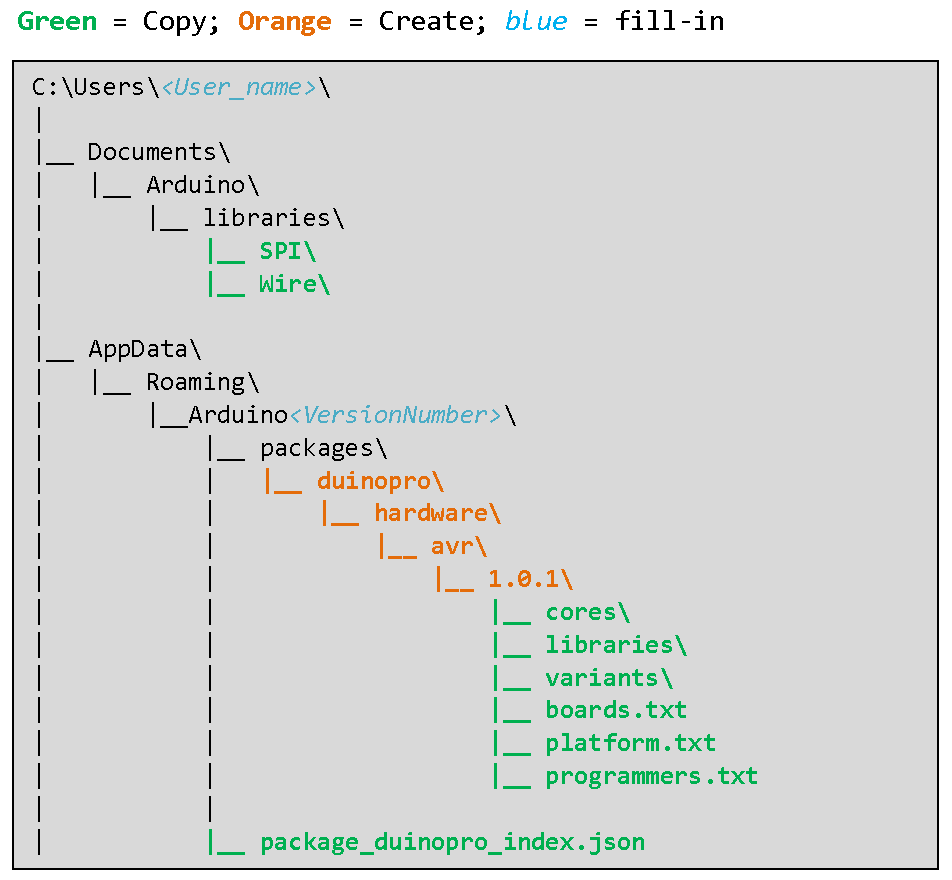
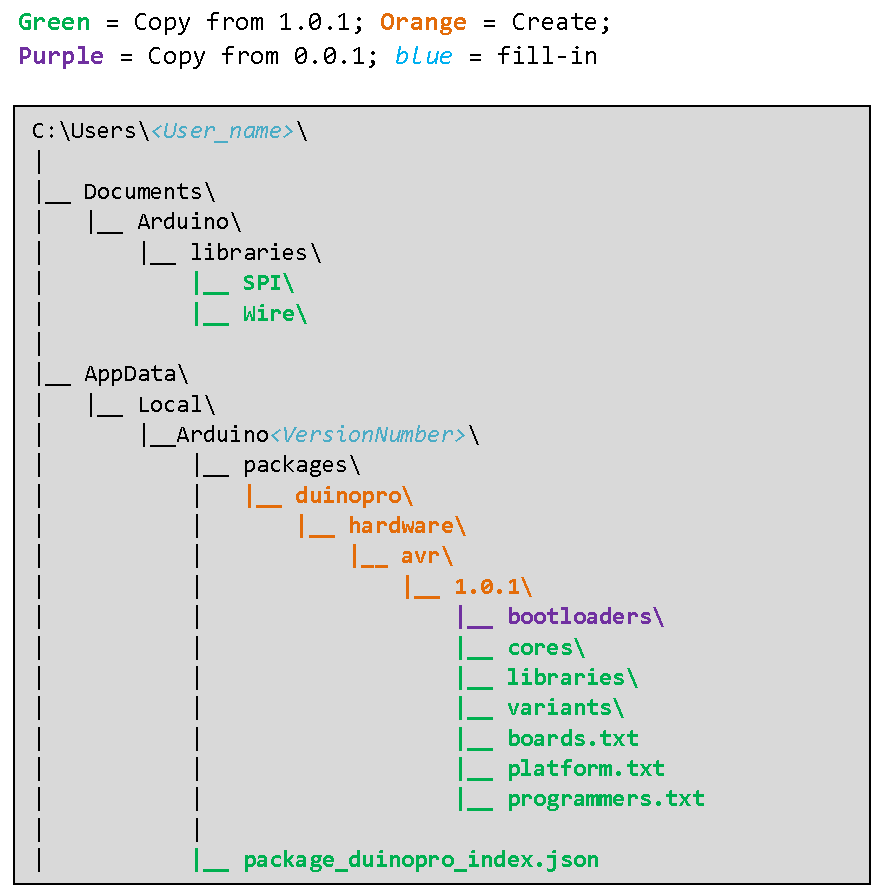
update install

Changed region(s): [[0.0, 0.0, 1.0, 1.0], [0.0909, 0.3682, 0.7879, 0.9205]]

diff --git a/searchindex.js b/searchindex.js
@@ -1,1 +1,1 @@
-Search.setIndex({docnames:["index","intro/home","quickRef/quickRef","tech_arch/arch_network","tech_arch/arch_sh","tech_arch/error_handling","tech_arch/main","tech_arch/principles/encapsulation","tech_arch/sh_configurations","tech_implement/hardware/hardware_dustyDuinoProMap","tech_implement/main","tech_testingDeploy/main","tech_testingDeploy/testing/firmwareTesting_makingTests","tech_testingDeploy/testing/firmwareTesting_overview","toc","usage/dependencies/duinoPro","usage/dependencies/otherPkgs_dustyQSL","usage/dependencies/software","usage/git/git_basics","usage/git/git_branches","usage/git/git_checkout","usage/main","usage/projDocs"],envversion:53,filenames:["index.rst","intro\\home.rst","quickRef\\quickRef.rst","tech_arch\\arch_network.rst","tech_arch\\arch_sh.rst","tech_arch\\error_handling.rst","tech_arch\\main.rst","tech_arch\\principles\\encapsulation.rst","tech_arch\\sh_configurations.rst","tech_implement\\hardware\\hardware_dustyDuinoProMap.rst","tech_implement\\main.rst","tech_testingDeploy\\main.rst","tech_testingDeploy\\testing\\firmwareTesting_makingTests.rst","tech_testingDeploy\\testing\\firmwareTesting_overview.rst","toc.rst","usage\\dependencies\\duinoPro.rst","usage\\dependencies\\otherPkgs_dustyQSL.rst","usage\\dependencies\\software.rst","usage\\git\\git_basics.rst","usage\\git\\git_branches.rst","usage\\git\\git_checkout.rst","usage\\main.rst","usage\\projDocs.rst"],objects:{},objnames:{},objtypes:{},terms:{"22cbc57":19,"3d2496f":20,"4552c5d":20,"466ce7c":20,"boolean":[12,13],"byte":8,"case":[8,12,19],"default":[5,8],"final":[3,12],"function":[3,7,8,13],"import":14,"int":[7,12],"new":[12,21,22],"public":7,"return":[7,12],"short":20,"static":7,"switch":19,"void":[7,12],"while":7,AWS:3,For:20,Going:21,IDE:15,ONE:19,The:[1,3,4,7,8,12,13,16,18,20,22],Use:20,With:18,_config:7,_config_set_flag:[7,8],_sourc:22,_sys_ready_flag:7,_sys_sleepguard:7,about:22,abov:13,access:[3,7],accordingli:12,achiev:3,across:[7,8],add:[18,19,20,22],added:[19,22],addit:15,addition:3,affect:19,after:[5,8],ahead:19,aim:14,all:[7,8,18,19,20,22],allow:[3,8],also:22,amazon:3,amount:8,analysi:3,ani:[18,19,20],anoth:[3,20],api:[2,3,7],app:3,appli:19,applic:3,approv:15,architectur:0,arduino:[2,15],arduinoid:21,around:20,ask:18,assist:14,atamo:[1,16,18],atmega328p:2,atmel:17,attempt:[5,8],authent:3,auto:3,autom:[16,22],automat:3,avail:12,avr:[2,3],awar:7,back:21,background:[0,6],balanc:3,base:[1,3,14,17],basic:21,beanstalk:3,becaus:[7,22],befor:[8,22],below:[4,18,19],better:18,between:[3,18,19],block:13,board:15,borrow:7,both:[8,19],bound:3,branch:[20,21,22],branchnam:19,bridg:3,broadcast:8,brochur:2,browser:3,bug:5,build:[8,11,12,18,19,21],busi:5,c7c:[1,16,18],caller:[7,12],can:[1,3,4,5,7,8,13,18,20,22],care:22,caus:5,cblue:20,centralis:3,certain:[8,13],cgreen:20,chang:[12,18,19,20,22],charact:7,check:[7,8,13,19,20,22],checkout:[19,21,22],choos:19,clean:22,clear:18,cli:2,client:[3,15],clone:[16,18],cloud:3,code:[1,5,12,13,14,17,20,21],collect:5,com:[1,16,18],combo:20,command:[8,18,19,22],comment:13,commit:[18,19,21,22],commun:[3,8],compil:[7,13],comput:15,concept:7,condit:12,configur:[3,6,16],conflict:18,consid:[7,22],contain:12,content:0,context:3,continu:5,contribut:[21,22],control:[3,7,17],copi:15,core:7,correspond:12,cost:8,creat:[3,11,14],cred:20,creset:20,critic:5,crucial:8,cryptic:20,csc:15,ctrl:15,current:19,cycl:8,d253315:20,daili:18,data:[3,5,8],databas:3,datasheet:2,date:[19,20],debug:[5,11,13],decoupl:20,decreas:8,defin:[12,13],depend:17,deploi:[3,14],deploy:[0,3],descript:8,design:[1,3,14,20],despit:18,detach:20,detail:[14,18],determin:7,dev1:19,dev2:19,dev:18,develop:[3,7,14,15,17,19],devic:[6,14],diagnost:8,differ:[18,19],digit:3,direct:3,directori:[19,22],disabl:13,discard:[19,20],distinct:12,django:3,doc:22,document:[20,21],doe:18,doing:20,don:18,done:[8,12,13],download:15,duino:2,duinopro:[2,3,10,21],dure:19,dust:2,dustcloud:16,dusti:[1,2,3,10,18,21],duti:8,dynamodb:3,each:12,easi:2,ec2:3,either:8,elast:3,embed:[2,17],enabl:13,encapsul:6,endif:[12,13],enforc:7,engin:18,ensur:[7,18],enter:[16,22],error:6,error_major:5,error_minor:5,essenti:16,event:5,everi:[7,8],everyth:22,exampl:[7,12,13,20,21],example_fil:19,exclud:22,exe:22,expect:8,experiment:20,expos:[3,7],extra:8,f106360:20,factor:8,fail:[8,12],field:15,file:[7,11,14,15,19,22],firmwar:11,first:19,flag:5,folder:[15,20],follow:[12,13,15],form:[3,20],format:[3,20],forward:3,found:[1,22],from:[3,5,7,8,12,13,15,16,20,22],front:7,funni:22,further:3,gatewai:3,get:[19,20],git:[16,17,19,20,21,22],github:[1,2,16,18],global:7,goal:14,granular:8,group:12,guard:12,guid:2,guidelin:12,handl:[6,12],hard:19,has:13,have:[7,19,22],head:[19,20],header:7,help:22,here:[19,22],hidden:22,hoc:12,hold:7,hop:3,host:[3,6],how:0,howev:[7,12],html:22,http:[1,3,15,16,18],ideal:12,imag:15,impact:20,implement:0,includ:[3,7,13],incorrect:5,index:[2,8,19,22],indic:8,individu:8,info:5,inform:8,infrastructur:3,ini:16,init:16,initi:[8,16],instal:[14,15,18,21],instead:[7,13],integr:[3,21],interfac:[3,7],intermitt:5,intern:8,interpret:3,interrupt:[7,20],introduc:8,ioteam:2,ipm01:2,ipm02:2,ipm03:2,ipm:2,ipr01:2,ipr02:2,ipr03:2,ipr04:2,ipr:2,is_sys_readi:7,issu:5,item:17,jami:20,join:8,json:15,just:19,keep:7,kei:[6,7],keyword:7,kjph:[1,18],know:20,languag:7,later:3,let:[12,19],level:[5,8],lib:22,librari:21,like:[7,18,20],line:20,linear:3,link:14,load:[3,8],local:[12,18,19],log:[5,8,18,20],log_level:8,logic:12,longer:5,look:[7,8,20],lookup:6,ltc5800:2,machin:19,macro:13,made:[12,19],mai:[7,12],main:[4,7,12,13,16,20],mainten:8,make:[11,18,20,21,22],manag:[2,3,5,7,15],manual:22,map:10,mark:22,master:20,max:8,maximum:8,mean:[3,18],mediawiki:15,memori:[8,13],merg:18,mesh:3,messag:22,meta:5,micro:7,microcontrol:3,min:8,minim:8,miss:8,mkdir:22,mode:11,modif:12,modifi:[11,15,19,20],modul:[3,7],monitor:3,month:8,more:18,mote:2,move:[19,22],multi:3,must:[7,8,12,22],nativ:22,navig:21,necessari:[12,16],need:[7,8,17,22],network:[5,6],network_join_duty_cycle_decr:8,network_join_duty_cycle_init:8,network_join_wait_max:8,network_join_wait_time_incr:8,network_join_wait_time_init:8,never:7,node:3,non:8,nosql:3,note:[12,19,20],notic:7,now:[19,20],number:[8,20],object:7,obvious:18,occur:13,off:13,often:18,old:[19,21],onc:[8,22],one:[3,12],onli:[7,8,13],onlin:18,oop:7,open:15,oper:[5,7],option:[8,19,22],orchestr:3,order:8,orient:7,origin:[19,22],other:7,our:[7,12,22],out:[3,13,20,22],outcom:12,output:[5,20],outsid:7,over:[7,8],overview:[11,14],packag:[16,22],package_duinopro_index:15,page:22,paramet:6,pars:3,patch:3,perform:[3,13,20],period:8,peripher:12,person:20,phan:20,pinout:2,pintout:2,pip:22,place:[3,12],pleas:15,point:3,pointless:7,possibl:5,potenti:5,pre:13,prefac:7,prefer:15,preliminari:7,press:22,pretti:20,prev:19,prevent:8,previou:19,privat:7,process:[3,18,22],processor:13,product:13,program:7,project:[1,16,18],propos:8,protocol:[3,8],provid:[3,8,16,18],publish:[15,19],pull:[18,19,21],pullqsl:16,push:[18,19,22],put:7,python36:22,python:[3,16,17,21],qsl:[2,21],queri:3,question:[12,13,19],quick:[0,20,21],quickstart:22,radio:3,random:19,rang:8,rapidli:3,rather:7,read:[7,18],readi:[7,8],reason:17,reattempt:8,rebuild:8,receiv:8,recommend:[18,22],recompil:8,recov:19,recoveri:5,red:3,ref:[2,18],refer:[0,3,15],regular:12,relev:[12,13],remot:[3,8],remov:[8,19,22],repeat:18,repo:[18,22],report:[5,12],repositori:[16,18],repres:12,request:5,requir:[7,8,17,18,19,21,22],reset:[5,19],resolut:8,resourc:[12,16],respons:5,restructur:22,ret:12,reveal:14,revert:5,review:[18,20],rid:19,right:[7,20],rooki:18,routin:[4,7,8,12],rst:22,run:[8,13,22],safeti:8,sai:[12,20],same:[8,18],sampl:[3,8],sampling_period_diagnost:8,sampling_period_sensor:8,save:[18,19],scale:3,schemat:2,scope:7,section:[12,18],see:7,seem:7,seen:[4,13],select:[13,15],self:3,send:8,senior:18,sensor:[3,6],sensor_clk_spe:8,sensor_comm_typ:8,sent:3,separ:[12,13,22],serial:2,serv:3,server:[3,18],servic:3,set:[8,12,13,16,22],setup:21,sever:[3,8],sha1:20,shift:12,ship:22,shorten:20,should:[7,12,22],shown:19,similar:13,simpl:3,singl:8,site:[3,8,22],sleep:[5,7,8],sleep_overhead_tim:8,sm_clib:16,small:16,smartmesh:[2,3],smb:[13,20],smip01:2,smip02:2,smip03:2,smip:2,softwar:[13,14,18,21],some:19,somedir:22,someon:7,someth:20,sometim:19,sound:18,sourc:[2,12,13,21,22],space:19,specifi:8,speed:[8,18],sphinx:21,sphinx_rtd_them:22,src:[16,19],stabil:5,stackexchang:18,stackoverflow:18,stage:[18,19],start:[2,20,21],stash:19,state:[6,8,19,20],statement:12,statu:19,still:18,storag:[3,19],store:[3,8],stream:3,strict:12,strictli:7,string:20,struct:7,structur:3,studio:17,sub:6,submodul:16,succe:12,summari:17,sys_reboot:7,sys_sleep:7,sys_stat:7,system:[0,5,7,8,18],systemst:7,tabl:0,tailor:18,task:3,tcp:3,team:[7,22],technician:8,technolog:3,test:[0,7,19,20],test_memory_en:[12,13],test_mod:13,test_newth:12,test_newthing_en:12,test_smb:12,test_smb_eeprom_simple_write_read:12,test_smb_en:[12,13],test_some_unit_test_for_new_th:12,tester:[12,13,19],testfail:12,text:[20,22],thei:[7,18],them:[7,13,19,20],theori:21,thi:[1,3,7,8,12,13,16,17,18,19,20,22],thing:[12,18],those:8,three:[12,18],through:[3,7],tight:7,time:[7,8],time_millisecond:7,timer0:20,timer:20,tool:[2,15,17,22],tqfp:2,transmit:3,tree:19,turn:13,tutori:[18,21],two:[3,8,19],type:12,typedef:7,uncommit:19,underscor:7,understand:[14,18],unfeas:8,uniqu:8,unit:20,unless:20,uno:2,until:7,untrack:19,updat:[8,16,18,19],upload:3,url:15,usabl:5,use:[7,14,19,20,22],used:[8,18],user:[2,3,7,14],uses:8,using:[3,7,19],usual:5,util:22,uwa:1,valu:[7,8],variabl:[6,8],variou:17,verbos:5,version:[17,22],virtual:3,visualis:3,volatil:8,wai:22,wait:[7,8,15],wake:7,want:19,warn:5,web:3,well:7,what:[18,19,20],when:[8,13],where:19,which:[3,13,18],whilst:[7,19],who:22,why:18,wikipedia:7,wip:19,wish:19,within:3,without:[8,20],wonder:18,work:[5,19],workflow:21,wsn:[3,8],yellow:20,you:[18,19,20,22],your:[15,18,19,21],zero:13,zip:15},titles:["C7C ATAMO Dusty Project","Background","Quick Reference","Network Architecture","Sensor Host","Error Handling","System Architecture","Encapsulation and State Variables","Sensor Host Configurations","Dusty-DuinoPro Mapping","Implementation","Testing and Deployment","Making Tests","Firmware Testing Overview","Table of Contents","DuinoPro and ArduinoIDE integration","Dusty Quick Start Library","Project Software","Git Basics","Branches","Checkout","Project How-To\u2019s","Project Documentation"],titleterms:{"function":12,"new":19,Going:20,architectur:[3,6,14],arduinoid:15,atamo:0,back:20,background:[1,8,14],basic:18,branch:19,build:[13,22],c7c:0,call:12,checkout:20,code:16,commit:20,configur:[8,13],content:14,creat:12,debug:12,deploy:[11,14],devic:8,document:[2,22],duinopro:[9,15],dusti:[0,9,16],encapsul:7,error:5,exampl:19,extern:2,file:12,firmwar:13,git:18,handl:5,header:12,host:[4,8],how:[14,21],implement:[10,14],includ:12,instal:22,integr:15,kei:3,librari:16,lookup:8,macro:12,make:[12,19],manag:8,map:9,mode:13,modifi:12,navig:19,network:[3,8],old:20,overview:13,paramet:8,project:[0,14,17,21,22],pull:16,python:22,qsl:16,quick:[2,14,16],refer:[2,14],select:12,sensor:[4,8],setup:[18,22],softwar:17,sourc:16,sphinx:22,start:[8,16],state:7,sub:3,system:[3,6,14],tabl:14,test:[11,12,13,14],theori:18,variabl:7,workflow:[18,19],your:22}})
+Search.setIndex({docnames:["index","intro/home","quickRef/quickRef","tech_arch/arch_network","tech_arch/arch_sh","tech_arch/error_handling","tech_arch/main","tech_arch/principles/encapsulation","tech_arch/sh_configurations","tech_implement/hardware/hardware_dustyDuinoProMap","tech_implement/main","tech_testingDeploy/main","tech_testingDeploy/testing/firmwareTesting_makingTests","tech_testingDeploy/testing/firmwareTesting_overview","toc","usage/dependencies/duinoPro","usage/dependencies/otherPkgs_dustyQSL","usage/dependencies/software","usage/git/git_basics","usage/git/git_branches","usage/git/git_checkout","usage/main","usage/projDocs"],envversion:53,filenames:["index.rst","intro\\home.rst","quickRef\\quickRef.rst","tech_arch\\arch_network.rst","tech_arch\\arch_sh.rst","tech_arch\\error_handling.rst","tech_arch\\main.rst","tech_arch\\principles\\encapsulation.rst","tech_arch\\sh_configurations.rst","tech_implement\\hardware\\hardware_dustyDuinoProMap.rst","tech_implement\\main.rst","tech_testingDeploy\\main.rst","tech_testingDeploy\\testing\\firmwareTesting_makingTests.rst","tech_testingDeploy\\testing\\firmwareTesting_overview.rst","toc.rst","usage\\dependencies\\duinoPro.rst","usage\\dependencies\\otherPkgs_dustyQSL.rst","usage\\dependencies\\software.rst","usage\\git\\git_basics.rst","usage\\git\\git_branches.rst","usage\\git\\git_checkout.rst","usage\\main.rst","usage\\projDocs.rst"],objects:{},objnames:{},objtypes:{},terms:{"22cbc57":19,"3d2496f":20,"4552c5d":20,"466ce7c":20,"boolean":[12,13],"byte":8,"case":[8,12,19],"default":[5,8],"final":[3,12],"function":[3,7,8,13],"import":14,"int":[7,12],"new":[12,21,22],"public":7,"return":[7,12],"short":20,"static":7,"switch":19,"true":15,"void":[7,12,15],"while":7,AWS:3,For:20,Going:21,IDE:15,ONE:19,The:[1,3,4,7,8,12,13,16,18,20,22],These:15,Use:20,With:[15,18],_config:7,_config_set_flag:[7,8],_sourc:22,_sys_ready_flag:7,_sys_sleepguard:7,about:22,abov:[13,15],access:[3,7],accordingli:12,achiev:3,across:[7,8],add:[18,19,20,22],added:[19,22],addit:15,addition:3,affect:19,after:[5,8],ahead:19,aim:14,all:[7,8,18,19,20,22],allow:[3,8],also:22,amazon:3,amount:8,analysi:3,ani:[18,19,20],anoth:[3,20],api:[2,3,7],app:3,appear:15,appli:19,applic:3,approv:15,architectur:0,arduino:[2,15],arduinoid:21,around:20,ask:18,assist:14,atamo:[1,16,18],atmega328p:2,atmel:17,attempt:[5,8],authent:3,auto:3,autom:[16,22],automat:3,avail:12,avr:[2,3],awar:7,back:21,background:[0,6],balanc:3,base:[1,3,14,17],basic:21,beanstalk:3,becaus:[7,22],befor:[8,22],below:[4,18,19],better:18,between:[3,18,19],block:13,board:15,borrow:7,both:[8,19],bound:3,branch:[20,21,22],branchnam:19,bridg:3,broadcast:8,brochur:2,browser:3,bug:5,build:[8,11,12,15,18,19,21],busi:5,c7c:[1,16,18],caller:[7,12],can:[1,3,4,5,7,8,13,18,20,22],care:22,categori:[],caus:5,cblue:20,centralis:3,certain:[8,13],cgreen:20,chang:[12,18,19,20,22],charact:7,check:[7,8,13,19,20,22],checkout:[19,21,22],choos:19,clean:22,clear:18,cli:2,client:[3,15],clone:[16,18],cloud:3,code:[1,5,12,13,14,17,20,21],collect:5,com:[1,16,18],combo:20,command:[8,18,19,22],comment:13,commit:[18,19,21,22],commun:[3,8],compil:[7,13],comput:15,concept:7,condit:12,configur:[3,6,16],conflict:18,consid:[7,22],contain:12,content:0,context:3,continu:5,contribut:[21,22],control:[3,7,17],copi:15,core:7,correspond:12,cost:8,creat:[3,11,14],cred:20,creset:20,critic:5,crucial:8,cryptic:20,csc:15,ctrl:15,current:19,cycl:8,d253315:20,daili:18,data:[3,5,8],databas:3,datasheet:2,date:[19,20],debug:[5,11,13,15],decoupl:20,decreas:8,defin:[12,13],depend:17,deploi:[3,14],deploy:[0,3],descript:8,design:[1,3,14,20],despit:18,detach:20,detail:[14,18],determin:7,dev1:19,dev2:19,dev:18,develop:[3,7,14,15,17,19],devic:[6,14],diagnost:8,differ:[18,19],digit:3,direct:3,directori:[19,22],disabl:13,discard:[19,20],distinct:12,django:3,doc:22,document:[20,21],doe:18,doing:20,don:[15,18],done:[8,12,13],download:15,duino:2,duinopro:[2,3,10,21],dure:19,dust:2,dustcloud:16,dusti:[1,2,3,10,18,21],duti:8,dynamodb:3,each:12,easi:2,ec2:3,either:8,elast:3,email:[],embed:[2,17],enabl:13,encapsul:6,endif:[12,13],enforc:7,engin:18,ensur:[7,18],enter:[16,22],error:6,error_major:5,error_minor:5,essenti:16,event:5,everi:[7,8],everyth:22,exampl:[7,12,13,20,21],example_fil:19,exclud:22,exe:22,expect:8,experiment:20,expos:[3,7],extra:8,f106360:20,factor:8,fail:[8,12],field:15,file:[7,11,14,15,19,22],firmwar:11,first:19,flag:5,folder:[15,20],follow:[12,13,15],form:[3,20],format:[3,20],forum:[],forward:3,found:[1,22],from:[3,5,7,8,12,13,15,16,20,22],front:7,funni:22,further:3,gatewai:3,get:[19,20],git:[16,17,19,20,21,22],github:[1,2,16,18],global:7,goal:14,granular:8,group:12,guard:12,guid:2,guidelin:12,handl:[6,12],hard:19,has:13,have:[7,19,22],head:[19,20],header:7,help:22,here:[19,22],hidden:22,hoc:12,hold:7,hop:3,host:[3,6],how:0,howev:[7,12],html:22,http:[1,3,15,16,18],ideal:12,imag:15,impact:20,implement:0,includ:[3,7,13,15],incorrect:5,index:[2,8,19,22],indic:8,individu:8,info:5,inform:8,infrastructur:3,ini:16,init:16,initi:[8,16],instal:[14,15,18,21],instead:[7,13],integr:[3,21],interfac:[3,7],intermitt:5,intern:8,interpret:3,interrupt:[7,20],introduc:8,ioteam:2,ipm01:2,ipm02:2,ipm03:2,ipm:2,ipr01:2,ipr02:2,ipr03:2,ipr04:2,ipr:2,is_sys_readi:7,issu:5,item:17,jami:20,join:8,json:15,just:19,keep:7,kei:[6,7],keyword:7,kjph:[1,18],know:20,languag:7,later:3,let:[12,19],level:[5,8],lib:22,librari:[15,21],like:[7,18,20],line:20,linear:3,link:14,load:[3,8],local:[12,18,19],log:[5,8,18,20],log_level:8,logic:12,longer:5,look:[7,8,20],lookup:6,loop:15,ltc5800:2,machin:19,macro:13,made:[12,19],mai:[7,12],main:[4,7,12,13,16,20],maintain:[],mainten:8,make:[11,18,20,21,22],manag:[2,3,5,7,15],manual:22,map:10,mark:22,master:20,max:8,maximum:8,mean:[3,18],mediawiki:15,memori:[8,13],merg:18,mesh:3,messag:22,meta:5,micro:7,microcontrol:3,min:8,minim:8,miss:8,mkdir:22,mode:11,modif:12,modifi:[11,15,19,20],modul:[3,7],monitor:3,month:8,more:18,mote:2,move:[19,22],multi:3,must:[7,8,12,22],mybaseboard:15,name:[],nativ:22,navig:21,necessari:[12,16],need:[7,8,15,17,22],network:[5,6],network_join_duty_cycle_decr:8,network_join_duty_cycle_init:8,network_join_wait_max:8,network_join_wait_time_incr:8,network_join_wait_time_init:8,never:7,node:3,non:8,nosql:3,note:[12,19,20],notic:7,now:[19,20],number:[8,20],object:7,obvious:18,occur:13,off:13,often:18,old:[19,21],onc:[8,22],one:[3,12],onli:[7,8,13],onlin:18,oop:7,open:15,oper:[5,7],option:[8,19,22],orchestr:3,order:8,orient:7,origin:[19,22],other:7,our:[7,12,22],out:[3,13,20,22],outcom:12,output:[5,20],outsid:7,over:[7,8],overview:[11,14],packag:[15,16,22],package_duinopro_index:15,page:22,paramet:6,pars:3,patch:3,perform:[3,13,20],period:8,peripher:12,person:20,phan:20,pinout:2,pintout:2,pip:22,place:[3,12],platform:15,pleas:15,point:3,pointless:7,possibl:5,potenti:5,pre:13,prefac:7,prefer:15,preliminari:7,press:22,pretti:20,prev:19,prevent:8,previou:19,privat:7,process:[3,18,22],processor:13,product:13,program:7,project:[1,16,18],propos:8,protocol:[3,8],provid:[3,8,16,18],publish:[15,19],pull:[18,19,21],pullqsl:16,push:[18,19,22],put:7,python36:22,python:[3,16,17,21],qsl:[2,21],queri:3,question:[12,13,19],quick:[0,20,21],quickstart:22,radio:3,random:19,rang:8,rapidli:3,rather:7,read:[7,18],readi:[7,8],reason:17,reattempt:8,rebuild:8,receiv:8,recommend:[18,22],recompil:8,recov:19,recoveri:5,red:3,ref:[2,18],refer:[0,3,15],regular:12,relev:[12,13],remot:[3,8],remov:[8,19,22],repeat:18,repeatedli:[],repo:[18,22],report:[5,12],repositori:[16,18],repres:12,request:5,requir:[7,8,15,17,18,19,21,22],reset:[5,19],resolut:8,resourc:[12,16],respons:5,restructur:22,ret:12,reveal:14,revert:5,review:[18,20],rid:19,right:[7,20],rooki:18,routin:[4,7,8,12],rst:22,run:[8,13,22],safeti:8,sai:[12,20],same:[8,18],sampl:[3,8],sampling_period_diagnost:8,sampling_period_sensor:8,save:[18,19],scale:3,schemat:2,scope:7,section:[12,18],see:7,seem:7,seen:[4,13],select:[13,15],self:3,send:8,senior:18,sensor:[3,6],sensor_clk_spe:8,sensor_comm_typ:8,sent:3,separ:[12,13,22],serial:2,serv:3,server:[3,18],servic:3,set:[8,12,13,15,16,22],setl:15,setup:[15,21],sever:[3,8],sha1:20,shift:12,ship:22,shorten:20,should:[7,12,22],shown:19,similar:13,simpl:3,singl:8,site:[3,8,22],sketch:15,sleep:[5,7,8],sleep_overhead_tim:8,sm_clib:16,small:16,smartmesh:[2,3],smb:[13,20],smip01:2,smip02:2,smip03:2,smip:2,softwar:[13,14,18,21],some:[15,19],somedir:22,someon:7,someth:20,sometim:19,sound:18,sourc:[2,12,13,21,22],space:19,specifi:8,speed:[8,18],sphinx:21,sphinx_rtd_them:22,spi:15,src:[16,19],stabil:5,stackexchang:18,stackoverflow:18,stage:[18,19],start:[2,20,21],stash:19,state:[6,8,19,20],statement:12,statu:19,step:15,still:18,storag:[3,19],store:[3,8],stream:3,strict:12,strictli:7,string:20,struct:7,structur:3,studio:17,sub:6,submodul:16,succe:12,summari:17,sys_reboot:7,sys_sleep:7,sys_stat:7,system:[0,5,7,8,18],systemst:7,tabl:0,tailor:18,task:3,tcp:3,team:[7,22],technician:8,technolog:3,test:[0,7,19,20,21],test_memory_en:[12,13],test_mod:13,test_newth:12,test_newthing_en:12,test_smb:12,test_smb_eeprom_simple_write_read:12,test_smb_en:[12,13],test_some_unit_test_for_new_th:12,tester:[12,13,19],testfail:12,text:[20,22],thei:[7,18],them:[7,13,19,20],theori:21,thi:[1,3,7,8,12,13,15,16,17,18,19,20,22],thing:[12,18],those:8,three:[12,18],through:[3,7],tight:7,time:[7,8],time_millisecond:7,timer0:20,timer:20,tool:[2,15,17,22],tqfp:2,transmit:3,tree:19,turn:13,tutori:[18,21],two:[3,8,19],type:12,typedef:7,uncommit:19,underscor:7,understand:[14,18],unfeas:8,uniqu:8,unit:20,unless:20,uno:2,until:7,untrack:19,updat:[8,16,18,19],upload:3,url:15,usabl:5,use:[7,14,15,19,20,22],used:[8,18],user:[2,3,7,14],uses:8,using:[3,7,19],usual:5,util:22,uwa:1,valu:[7,8],variabl:[6,8],variou:17,verbos:5,version:[15,17,22],virtual:3,visualis:3,volatil:8,wai:22,wait:[7,8,15],wake:7,want:19,warn:[5,15],web:3,websiteurl:[],well:7,what:[18,19,20],when:[8,13],where:19,which:[3,13,18],whilst:[7,19],who:22,why:18,wikipedia:7,wip:19,wire:15,wish:19,within:3,without:[8,20],wonder:18,work:[5,19],workflow:21,wsn:[3,8],yellow:20,yet:15,you:[18,19,20,22],your:[15,18,19,21],zero:13,zip:15},titles:["C7C ATAMO Dusty Project","Background","Quick Reference","Network Architecture","Sensor Host","Error Handling","System Architecture","Encapsulation and State Variables","Sensor Host Configurations","Dusty-DuinoPro Mapping","Implementation","Testing and Deployment","Making Tests","Firmware Testing Overview","Table of Contents","DuinoPro and ArduinoIDE integration","Dusty Quick Start Library","Project Software","Git Basics","Branches","Checkout","Project How-To\u2019s","Project Documentation"],titleterms:{"function":12,"new":19,Going:20,architectur:[3,6,14],arduinoid:15,atamo:0,back:20,background:[1,8,14],basic:18,branch:19,build:[13,22],c7c:0,call:12,checkout:20,code:16,commit:20,configur:[8,13],content:14,creat:12,debug:12,deploy:[11,14],devic:8,document:[2,22],duinopro:[9,15],dusti:[0,9,16],encapsul:7,error:5,exampl:19,extern:2,file:12,firmwar:13,git:18,handl:5,header:12,host:[4,8],how:[14,21],implement:[10,14],includ:12,instal:22,integr:15,kei:3,librari:16,lookup:8,macro:12,make:[12,19],manag:8,map:9,mode:13,modifi:12,navig:19,network:[3,8],old:20,overview:13,paramet:8,project:[0,14,17,21,22],pull:16,python:22,qsl:16,quick:[2,14,16],refer:[2,14],select:12,sensor:[4,8],setup:[18,22],softwar:17,sourc:16,sphinx:22,start:[8,16],state:7,sub:3,system:[3,6,14],tabl:14,test:[11,12,13,14,15],theori:18,variabl:7,workflow:[18,19],your:22}})

diff --git a/usage/dependencies/duinoPro.html b/usage/dependencies/duinoPro.html
@@ -93,7 +93,10 @@
 <li class="toctree-l1"><a class="reference internal" href="../../intro/home.html">Background</a></li>
 <li class="toctree-l1 current"><a class="reference internal" href="../main.html">Project How-To’s</a><ul class="current">
 <li class="toctree-l2"><a class="reference internal" href="software.html">Project Software</a></li>
-<li class="toctree-l2 current"><a class="current reference internal" href="#">DuinoPro and ArduinoIDE integration</a></li>
+<li class="toctree-l2 current"><a class="current reference internal" href="#">DuinoPro and ArduinoIDE integration</a><ul>
+<li class="toctree-l3"><a class="reference internal" href="#testing">Testing</a></li>
+</ul>
+</li>
 <li class="toctree-l2"><a class="reference internal" href="otherPkgs_dustyQSL.html">Dusty Quick Start Library</a></li>
 <li class="toctree-l2"><a class="reference internal" href="../git/git_basics.html">Git Basics</a></li>
 <li class="toctree-l2"><a class="reference internal" href="../git/git_checkout.html">Checkout</a></li>
@@ -185,19 +188,61 @@ folder# <code class="docutils literal"><span class="pre">03.11</span></code></p>
 <li>From the installation <code class="docutils literal"><span class="pre">.zip</span></code> copy files into your computer as follows:</li>
 </ol>
 <div class="figure">
-<a class="reference internal image-reference" href="../../_images/installation.png"><img alt="../../_images/installation.png" src="../../_images/installation.png" style="width: 571.1999999999999px; height: 528.0px;" /></a>
+<a class="reference internal image-reference" href="../../_images/installation.png"><img alt="../../_images/installation.png" src="../../_images/installation.png" style="width: 534.6px; height: 537.6px;" /></a>
 </div>
 <ol class="arabic simple" start="3">
+<li>Modify the <code class="docutils literal"><span class="pre">package_duinopro_index.json</span></code> file as follows:</li>
+</ol>
+<div class="highlight-json"><div class="highlight"><pre><span></span><span class="p">{</span>
+    <span class="nt">&quot;packages&quot;</span><span class="p">:</span> <span class="p">[</span>
+        <span class="p">{</span>
+            <span class="nt">&quot;platforms&quot;</span><span class="p">:</span> <span class="p">[</span>
+                <span class="p">{</span>
+                <span class="nt">&quot;version&quot;</span><span class="p">:</span> <span class="s2">&quot;1.0.1&quot;</span><span class="p">,</span>
+                <span class="p">}</span>
+            <span class="p">]</span>
+        <span class="p">}</span>
+    <span class="p">],</span>
+<span class="p">}</span>
+</pre></div>
+</div>
+<ol class="arabic simple" start="4">
 <li>Open the Arduino IDE and open your preferences (<code class="docutils literal"><span class="pre">Ctrl+,</span></code>). Modify the <em>Additional Boards Manager URL</em> field to: <code class="docutils literal"><span class="pre">http://10.0.0.156/mediawiki/images/1/1c/package_duinopro_index.json</span></code></li>
 </ol>
 <div class="figure">
 <a class="reference internal image-reference" href="../../_images/installation02.png"><img alt="../../_images/installation02.png" src="../../_images/installation02.png" style="width: 529.8px; height: 435.0px;" /></a>
 </div>
-<ol class="arabic simple" start="4">
+<ol class="arabic simple" start="5">
 <li>Select your board in <code class="docutils literal"><span class="pre">Tools</span></code></li>
 </ol>
 <div class="figure">
 <a class="reference internal image-reference" href="../../_images/installation03.png"><img alt="../../_images/installation03.png" src="../../_images/installation03.png" style="width: 462.0px; height: 536.0px;" /></a>
+</div>
+<div class="section" id="testing">
+<h2>Testing<a class="headerlink" href="#testing" title="Permalink to this headline">¶</a></h2>
+<p>With your board set in step 4 above, use the following sketch to test your build:</p>
+<div class="highlight-cpp"><div class="highlight"><pre><span></span><span class="c1">//These are required for the DuinoPRO library</span>
+<span class="cp">#include</span> <span class="cpf">&lt;Wire.h&gt;</span><span class="cp"></span>
+<span class="cp">#include</span> <span class="cpf">&lt;SPI.h&gt;</span><span class="cp"></span>
+
+<span class="cp">#include</span> <span class="cpf">&lt;duinoPRO.h&gt;</span><span class="cp"></span>
+
+<span class="kt">void</span> <span class="nf">setup</span><span class="p">()</span> <span class="p">{</span>
+  <span class="c1">// Testing the DuinoPRO library</span>
+  <span class="n">duinoPRO</span> <span class="n">myBaseBoard</span><span class="p">;</span>
+  <span class="n">myBaseBoard</span><span class="p">.</span><span class="n">setLed</span><span class="p">(</span><span class="nb">true</span><span class="p">);</span>
+
+<span class="p">}</span>
+
+<span class="kt">void</span> <span class="nf">loop</span><span class="p">()</span> <span class="p">{</span>
+  <span class="c1">// We don&#39;t need this</span>
+<span class="p">}</span>
+</pre></div>
+</div>
+<div class="admonition note">
+<p class="first admonition-title">Note</p>
+<p class="last">Some warnings will appear, JP yet to debug these</p>
+</div>
 </div>
 </div>
 

diff --git a/usage/main.html b/usage/main.html
@@ -173,7 +173,10 @@
 <p class="caption"><span class="caption-text">Software Required:</span></p>
 <ul>
 <li class="toctree-l1"><a class="reference internal" href="dependencies/software.html">Project Software</a></li>
-<li class="toctree-l1"><a class="reference internal" href="dependencies/duinoPro.html">DuinoPro and ArduinoIDE integration</a></li>
+<li class="toctree-l1"><a class="reference internal" href="dependencies/duinoPro.html">DuinoPro and ArduinoIDE integration</a><ul>
+<li class="toctree-l2"><a class="reference internal" href="dependencies/duinoPro.html#testing">Testing</a></li>
+</ul>
+</li>
 <li class="toctree-l1"><a class="reference internal" href="dependencies/otherPkgs_dustyQSL.html">Dusty Quick Start Library</a><ul>
 <li class="toctree-l2"><a class="reference internal" href="dependencies/otherPkgs_dustyQSL.html#source-code">Source Code</a></li>
 <li class="toctree-l2"><a class="reference internal" href="dependencies/otherPkgs_dustyQSL.html#pulling-the-qsl">Pulling the QSL</a></li>
